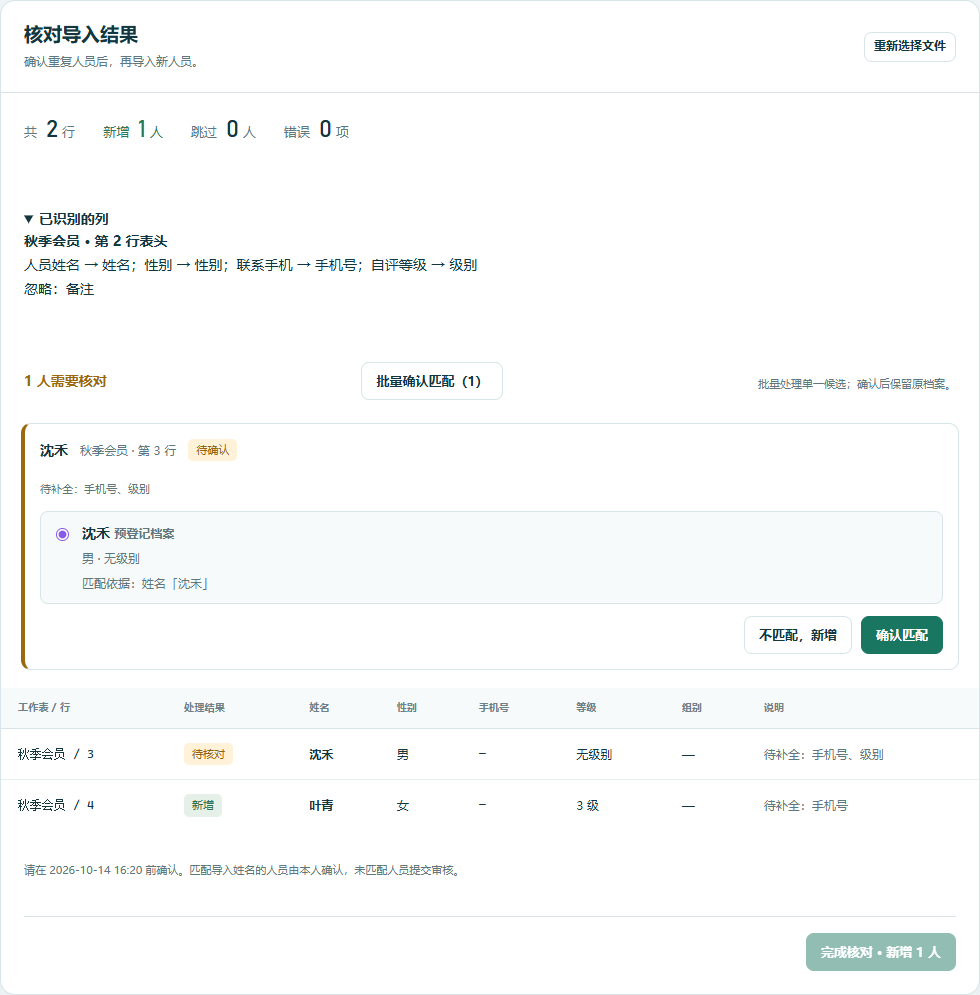
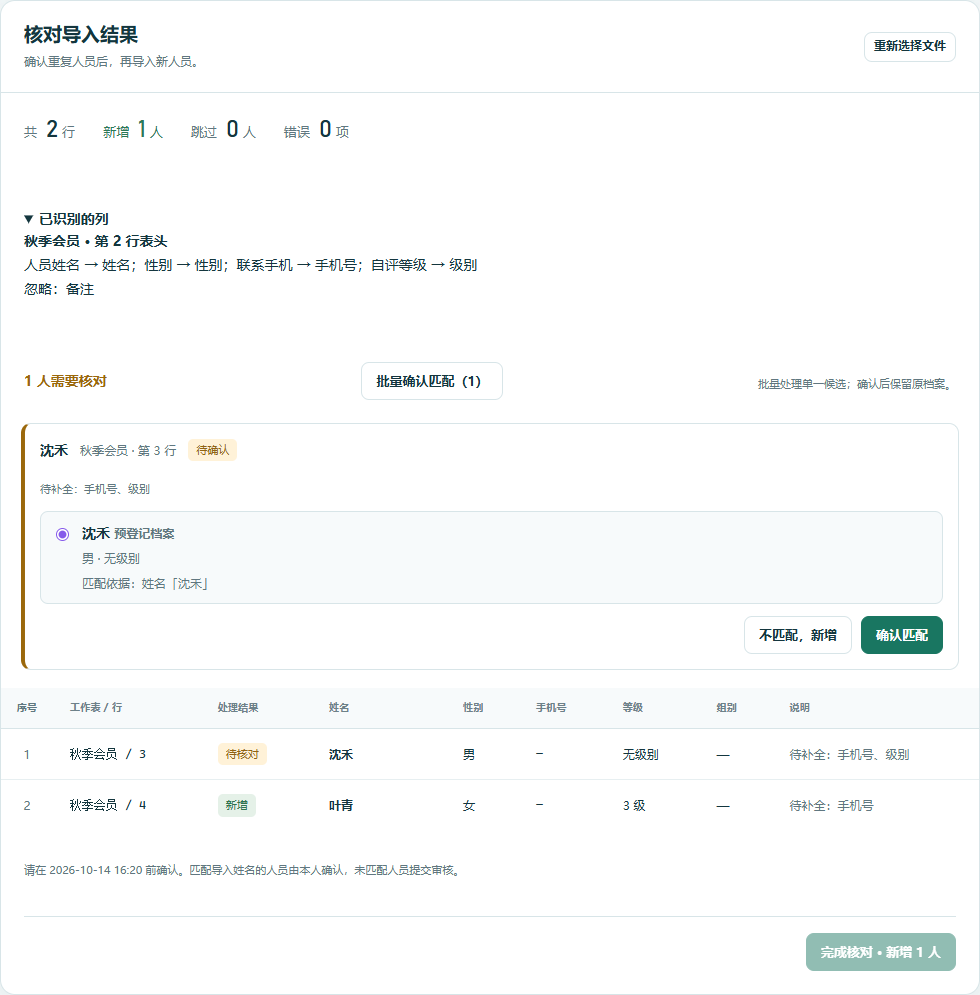
Add consistent row numbers to administrator tables (v1.0)

diff --git a/app/static/guide-admin.html b/app/static/guide-admin.html
@@ -2,7 +2,7 @@
 <html lang="zh-CN"><head><meta charset="utf-8"><meta name="viewport" content="width=device-width, initial-scale=1"><meta name="color-scheme" content="light"><meta name="referrer" content="no-referrer"><meta name="description" content="羽协助手管理员版：接入机器人、管理会员与活动，按步骤办好一场大型赛事。"><title>管理员版 · 羽协助手操作说明</title><link rel="stylesheet" href="/static/guide.css?v=1.0-guide20261020"><script src="/static/guide.js?v=1.0-guide20261020" defer></script></head>
 <body data-edition="admin"><a class="skip-link" href="#content">跳到操作说明</a><header class="site-header"><a class="brand" href="/guide"><span class="brand-mark" aria-hidden="true">羽</span><span>羽协助手<small>操作说明</small></span></a><nav class="edition-switch" aria-label="选择说明版本"><a href="/guide">普通用户版</a><a href="/guide/admin" aria-current="page">管理员版</a></nav></header>
 <div class="layout"><aside class="contents"><p class="nav-label">管理员版目录</p><nav aria-label="说明目录"><a href="#start"><span>01</span> 管理工作入口</a><a href="#robots"><span>02</span> 机器人接入与分工</a><a href="#people"><span>03</span> 会员、审核与角色</a><a href="#activities"><span>04</span> 日常活动与报名</a><a href="#large-events"><span>05</span> 举办大型赛事</a><a href="#operations"><span>06</span> 消息、AI与系统</a><a href="#feedback"><span>07</span> 常见问题处理</a></nav><p class="nav-note">群内先 @对应机器人。<br>示例中的日期、姓名和赛事名请按实际替换。截图使用虚构数据，可点开大图。</p></aside><main id="content" tabindex="-1"><div class="intro"><p class="eyebrow">接入 · 运营 · 办赛</p><h1>管理员版</h1><p class="guide-updated">按当前页面更新 · 2026-10-20 · 截图均为示例数据，可点开大图。</p><p>接入机器人、管理会员与活动，按步骤办好一场大型赛事。</p><div class="search" id="guide-search" hidden><label for="search-input">查找本版用法</label><div class="search-row"><input id="search-input" type="search" placeholder="接入机器人、审核、抽签、发布…" autocomplete="off"><button id="clear-search" type="button">清除</button></div><p id="search-status" role="status" aria-live="polite" aria-atomic="true"></p></div></div>
-<section class="chapter" id="start" aria-labelledby="start-heading"><div class="chapter-heading"><span class="chapter-number">01</span><h2 id="start-heading">管理工作入口</h2></div><div class="cards"><article class="card card-wide" data-guide-item><h3>登录后，从要办的事开始</h3><p id="management">打开管理工作台，使用<strong>管理员密码</strong>登录。密码可在“系统设置”修改。</p><dl class="scenario-grid"><div><dt>让一个群开始使用</dt><dd>先配置场地和时段，再接入机器人、勾选业务、连接群。</dd></div><div><dt>处理新会员</dt><dd>审核申请，按需核准等级、设置组别、登记会籍。</dd></div><div><dt>举办公开赛或联赛</dt><dd>先创建草稿与安排人员，再开放报名、抽签和排赛。</dd></div></dl><p class="note">群内管理员及子权限在“人员中心 → 角色与权限”分配，不是各自的网页登录账号。注册、报名和普通参赛用法见普通用户版。</p><a class="text-link" href="/admin#dashboard">进入管理工作台 →</a></article></div></section>
+<section class="chapter" id="start" aria-labelledby="start-heading"><div class="chapter-heading"><span class="chapter-number">01</span><h2 id="start-heading">管理工作入口</h2></div><div class="cards"><article class="card card-wide" data-guide-item><h3>登录后，从要办的事开始</h3><p id="management">打开管理工作台，使用<strong>管理员密码</strong>登录。密码可在“系统设置”修改。</p><dl class="scenario-grid"><div><dt>让一个群开始使用</dt><dd>先配置场地和时段，再接入机器人、勾选业务、连接群。</dd></div><div><dt>处理新会员</dt><dd>审核申请，按需核准等级、设置组别、登记会籍。</dd></div><div><dt>举办公开赛或联赛</dt><dd>先创建草稿与安排人员，再开放报名、抽签和排赛。</dd></div></dl><p class="note">群内管理员及子权限在“人员中心 → 角色与权限”分配，不是各自的网页登录账号。注册、报名和普通参赛用法见普通用户版。</p><p>列表左侧的“序号”按当前显示顺序从 1 编排，筛选后重新编号。</p><a class="text-link" href="/admin#dashboard">进入管理工作台 →</a></article></div></section>
 <section class="chapter" id="robots" aria-labelledby="robots-heading"><div class="chapter-heading"><span class="chapter-number">02</span><h2 id="robots-heading">机器人接入与分工</h2></div><div class="cards">
 <article class="card" data-guide-item><h3>1. 机器人管理：名称与分工</h3><ol class="steps"><li>进入<strong>机器人与群 → 机器人管理</strong>，点击<strong>新建机器人</strong>。</li><li>填写名称，勾选业务。注册、报名、每日赛事、零散对局、统计和消息默认开启；AI、大型赛事、群内管理默认关闭。</li><li>按需设置场地、场次、用户条件及功能开放时间，保存。</li><li>点击机器人行展开，用<strong>编辑名称与功能</strong>调整设置，或预览帮助。</li></ol><p>机器人名称旁显示业务和负责时段；连接地址在另一个分页配置。</p><a class="text-link" href="/admin#bots">打开机器人管理 →</a><details class="screen-guide"><summary>看图操作：机器人管理</summary><div class="screenshot-grid"><figure class="guide-shot">
 <a href="/static/guide-images/admin-bots.png" target="_blank" rel="noopener" aria-label="查看大图：图 7 · 机器人管理配置名称、业务和服务范围；连接放在“群关联”。">

diff --git a/app/static/table-row-numbers.js b/app/static/table-row-numbers.js
@@ -1,0 +1,71 @@
+/* Shared display numbering for admin data tables, including async modal content. */
+(() => {
+  'use strict';
+  const selector = '.table-wrap > table';
+  const columnClass = 'admin-row-number';
+
+  function numberTable(table) {
+    const head = table.tHead;
+    if (!head?.rows.length) return;
+    const first = head.rows[0];
+    let heading = first.querySelector(`:scope > .${columnClass}`);
+    if (!heading) {
+      heading = document.createElement('th');
+      heading.className = columnClass;
+      heading.scope = 'col';
+      heading.textContent = '序号';
+      first.prepend(heading);
+    }
+    if (heading.rowSpan !== head.rows.length) heading.rowSpan = head.rows.length;
+    const columns = [...first.cells].reduce((sum, cell) => sum + cell.colSpan, 0);
+    let number = 0;
+    for (const body of table.tBodies) {
+      for (const row of body.rows) {
+        let cell = row.querySelector(`:scope > .${columnClass}`);
+        const dataCells = [...row.cells].filter(item => item !== cell);
+        // A full-width empty/loading row is a message, not a numbered record.
+        if (dataCells.length === 1 && dataCells[0].colSpan > 1) {
+          cell?.remove();
+          if (dataCells[0].colSpan !== columns) dataCells[0].colSpan = columns;
+          continue;
+        }
+        if (!dataCells.length) continue;
+        if (!cell) {
+          cell = document.createElement('td');
+          cell.className = columnClass;
+          row.prepend(cell);
+        }
+        const style = getComputedStyle(row);
+        const visible = !row.hidden && style.display !== 'none' && style.visibility !== 'collapse' && style.visibility !== 'hidden';
+        const label = visible ? String(++number) : '';
+        if (cell.textContent !== label) cell.textContent = label;
+      }
+    }
+    // Keep summary/footer spans aligned without assigning a record number.
+    for (const row of table.tFoot?.rows || []) {
+      if (row.cells.length === 1 && row.cells[0].colSpan !== columns) row.cells[0].colSpan = columns;
+    }
+  }
+
+  function collect(node, tables) {
+    if (!(node instanceof Element)) return;
+    const table = node.closest('table');
+    if (table?.matches(selector)) tables.add(table);
+    node.querySelectorAll(selector).forEach(item => tables.add(item));
+  }
+
+  const observer = new MutationObserver(records => {
+    const tables = new Set();
+    for (const record of records) {
+      if (record.target instanceof Element && record.target.closest(`.${columnClass}`)) continue;
+      collect(record.target, tables);
+    }
+    tables.forEach(table => { if (table.isConnected) numberTable(table); });
+  });
+  // Admin-only roots: message previews and public guide tables keep their format.
+  for (const root of document.querySelectorAll('#app, #modal')) {
+    root.querySelectorAll(selector).forEach(numberTable);
+    observer.observe(root, {childList: true, subtree: true, attributes: true,
+      attributeFilter: ['hidden', 'class', 'style']});
+  }
+})();

diff --git a/app/static/style.css b/app/static/style.css
@@ -88,6 +88,12 @@ dialog[open]{display:flex;flex-direction:column;overflow:hidden;max-height:calc(
 @media(max-width:1050px){.robot-group{align-items:flex-start;flex-direction:column}.robot-group-actions{width:100%}.robot-coverage{grid-template-columns:minmax(0,1fr)}.robot-overview>span:last-child{width:100%;margin-left:0}}
 @media(max-width:650px){.robot-capabilities{grid-template-columns:minmax(0,1fr)}.robot-capability{padding:12px;min-height:60px}.robot-capability input{width:20px;height:20px}.robot-coverage{padding:18px 15px;gap:18px}.robot-groups-heading{padding:18px 15px 6px}.robot-group-list{padding:0 15px 8px}.robot-card-footer{padding:12px 15px}.robot-card-footer>.actions{width:100%}.robot-card-footer>.actions .btn{flex:1 1 auto}.robot-group-actions .btn{flex:1 1 auto}.robot-scope-settings{padding:0 12px}.robot-channel-toggles{flex-direction:column;gap:6px}.robot-overview{gap:10px 20px}.robot-group-title .badge{font-size:10px}.robot-card>.panel-head>.actions{width:100%}.robot-card>.panel-head>.actions .btn{flex:1 1 auto}}
 /* Occupancy and holiday operations share the existing responsive form grid. */
+/* Display-only row numbers stay narrow alongside scrollable admin tables. */
+.table-wrap th.admin-row-number,.table-wrap td.admin-row-number{width:52px;min-width:52px;max-width:64px;padding:12px 10px;text-align:center;white-space:nowrap;font-variant-numeric:tabular-nums;color:var(--muted)}
+.table-wrap th.admin-row-number{font-weight:650}
+.table-wrap table:has(.admin-row-number) td.name{min-width:100px}
+.table-wrap table:has(.admin-row-number) td.mono{white-space:nowrap}
+@media(max-width:650px){.table-wrap th.admin-row-number,.table-wrap td.admin-row-number{width:44px;min-width:44px;max-width:52px;padding:12px 7px}}
 .calendar-item.occupied{background:#fff0e8;color:#963915;border-left:3px solid #c94e2c}
 .occupancy-reason{display:block;color:#963915;font-size:13px;overflow-wrap:anywhere}
 .holiday-slot,.holiday-override,.reservation-row{padding:16px 0;border-bottom:1px solid var(--line,#dce6e5);margin-bottom:12px}

diff --git a/app/static/index.html b/app/static/index.html
@@ -6,7 +6,7 @@
   <meta name="color-scheme" content="light">
   <meta name="referrer" content="same-origin">
   <title>羽协 · 场边工作台</title>
-  <link rel="stylesheet" href="/static/style.css?v=1.0-confirm20261020">
+  <link rel="stylesheet" href="/static/style.css?v=1.0-rows20261022">
   <link rel="stylesheet" href="/static/bot-groups.css?v=1.0-confirm20261020">
 <link rel="stylesheet" href="/static/bot-relations.css?v=1.0-confirm20261020">
 <script src="/static/bot-relations.js?v=1.0-confirm20261020" defer></script>
@@ -31,6 +31,7 @@
 <script src="/static/profile-workspace.js?v=1.0-confirm20261020" defer></script>
 <script src="/static/time-workspace.js?v=1.0-confirm20261020" defer></script>
 <link rel="stylesheet" href="/static/time-workspace.css?v=1.0-confirm20261020">
+<script src="/static/table-row-numbers.js?v=1.0-rows20261022" defer></script>
 <script src="/static/app.js?v=1.0-confirm20261020" defer></script>
 </body>
 </html>

diff --git a/scripts/mobile_browser/check_tables.py b/scripts/mobile_browser/check_tables.py
@@ -1,0 +1,127 @@
+"""Verify shared admin numbering against actual pages and dynamic table updates."""
+import json
+import os
+from datetime import datetime
+from pathlib import Path
+from playwright.sync_api import sync_playwright
+
+base = Path(os.environ['ROBORT_MOBILE_RUN_DIR'])
+meta = json.loads((base / 'fixture.json').read_text(encoding='utf-8'))
+origin = meta['origin']
+report = {'checks': [], 'errors': [], 'external_requests': []}
+
+
+def check(label, passed):
+    report['checks'].append({'name': label, 'passed': bool(passed)})
+    assert passed, label
+
+
+def intercept(route):
+    if route.request.url.startswith(origin + '/'):
+        route.continue_()
+    else:
+        report['external_requests'].append(route.request.url)
+        route.abort()
+
+
+def tables(page, label, root='#main'):
+    page.locator('#main .loading').wait_for(state='hidden')
+    page.wait_for_load_state('networkidle')
+    found = page.locator(root + ' .table-wrap > table')
+    check(label + ' has data table', found.count() > 0)
+    for i in range(found.count()):
+        table = found.nth(i)
+        check(label + ' leading header', table.locator('thead th').first.inner_text() == '序号')
+        rows = table.locator('tbody > tr').all()
+        check(label + ' sequence', [row.locator('td').first.inner_text() for row in rows] == [str(n + 1) for n in range(len(rows))])
+        check(label + ' single number column', table.locator('thead .admin-row-number').count() == 1)
+        check(label + ' columns align', all(row.locator('td').count() == table.locator('thead th').count() for row in rows))
+    check(label + ' page fits', page.evaluate('document.documentElement.scrollWidth <= innerWidth+1'))
+
+
+def visit(page, route):
+    if page.locator('#modal[open]').count():
+        page.keyboard.press('Escape')
+    page.goto(origin + '/admin#' + route)
+    page.locator('#main .loading').wait_for(state='hidden')
+    page.wait_for_load_state('networkidle')
+
+
+try:
+    with sync_playwright() as pw:
+        browser = pw.chromium.launch(executable_path=os.environ.get('ROBORT_BROWSER_EXECUTABLE'), headless=True)
+        context = browser.new_context(viewport={'width': 1280, 'height': 900})
+        context.route('**/*', intercept)
+        page = context.new_page()
+        page.on('pageerror', lambda error: report['errors'].append(str(error)))
+        page.clock.install(time=datetime.fromisoformat(meta['clock']))
+        page.goto(origin + '/admin#members')
+        page.get_by_label('管理员密码', exact=True).fill(meta['password'])
+        page.get_by_role('button', name='登录工作台', exact=True).click()
+        page.locator('#member-list table').wait_for()
+        for width in (1280, 768, 390, 320):
+            page.set_viewport_size({'width': width, 'height': 900})
+            visit(page, 'members')
+            tables(page, f'{width} members')
+            check('compact number column', page.locator('th.admin-row-number').first.bounding_box()['width'] < 70)
+            page.locator('#member-search').fill('张三')
+            tables(page, f'{width} filtered members')
+            check('filter keeps identity', page.locator('#member-list td.name').all_inner_texts() == ['张三'])
+            page.locator('#member-search').fill('不存在的会员')
+            check('empty state is not a record', page.locator('#member-list table').count() == 0)
+            page.locator('#member-search').fill('')
+            page.locator('#member-status-filter').select_option('pending')
+            tables(page, f'{width} pending')
+            page.locator('#member-list').screenshot(path=str(base / f'rows-{width}.png'))
+            for route in ('member-imports', 'guests', 'roles', 'stats', 'audit'):
+                visit(page, route)
+                tables(page, f'{width} {route}')
+            visit(page, 'member-imports')
+            page.locator('#import-select-all').check()
+            selected = page.locator('[data-import-check]:checked').count()
+            check('select-all identity unchanged', selected == page.locator('[data-import-check]').count() and selected > 0)
+            page.locator('#import-select-all').uncheck()
+            check('clear selection', page.locator('[data-import-check]:checked').count() == 0)
+            page.get_by_role('button', name='匹配已有会员', exact=True).click()
+            page.locator('#modal table').wait_for()
+            tables(page, f'{width} matching modal', '#modal')
+            visit(page, 'tournaments')
+            page.locator(f'[data-action=tournament-open][data-id="{meta["proxy_event_id"]}"]').click()
+            page.get_by_role('tab', name='参赛名单', exact=True).click()
+            tables(page, f'{width} participants')
+
+        # Async modal content, reordering, append/remove, hidden rows and spans.
+        page.evaluate('''() => {
+          openModal('序号验证', '<div class="table-wrap"><table><thead><tr><th>姓名</th><th>动作</th></tr></thead><tbody id="rows-test"><tr data-key="a"><td>甲</td><td><button data-key="a">编辑</button></td></tr><tr data-key="b"><td>乙</td><td><button data-key="b">编辑</button></td></tr></tbody></table></div>');
+        }''')
+        tables(page, 'dynamic modal', '#modal')
+        page.evaluate("document.querySelector('#rows-test').prepend(document.querySelector('#rows-test tr:last-child'))")
+        tables(page, 'reordered modal', '#modal')
+        check('reorder preserves key', page.locator('#rows-test tr').first.get_attribute('data-key') == 'b')
+        page.evaluate("document.querySelector('#rows-test').insertAdjacentHTML('beforeend','<tr data-key=\"c\"><td>丙</td><td>查看</td></tr>')")
+        tables(page, 'appended row', '#modal')
+        page.locator('#rows-test tr').first.evaluate('(row) => row.hidden = true')
+        check('hidden row does not consume number', page.locator('#rows-test tr:visible .admin-row-number').all_inner_texts() == ['1', '2'])
+        page.locator('#rows-test tr').first.evaluate('(row) => row.hidden = false')
+        tables(page, 'unhidden row', '#modal')
+        page.locator('#rows-test tr').nth(1).evaluate('(row) => row.remove()')
+        tables(page, 'removed row', '#modal')
+        page.evaluate("document.querySelector('#rows-test').innerHTML='<tr><td colspan=\"2\">暂无记录</td></tr>'")
+        check('empty row spans number column', page.locator('#rows-test td').get_attribute('colspan') == '3')
+        check('empty row not numbered', page.locator('#rows-test .admin-row-number').count() == 0)
+        # Large lists remain stable after the observer settles; no repeated columns.
+        page.evaluate("document.querySelector('#rows-test').innerHTML=Array.from({length:1000},(_,i)=>'<tr><td>会员'+i+'</td><td>查看</td></tr>').join('')")
+        page.wait_for_function("document.querySelector('#rows-test tr:last-child td').textContent === '1000'")
+        check('large list one cell each', page.locator('#rows-test .admin-row-number').count() == 1000)
+        page.evaluate("openModal('消息预览',markdown('| 姓名 | 性别 |\\n|---|---|\\n| 张三 | 男 |'))")
+        check('message preview retains columns', page.locator('#modal th').all_inner_texts() == ['姓名', '性别'])
+        page.keyboard.press('Escape')
+        page.goto(origin + '/guide/admin')
+        check('manual examples retain format', page.locator('.admin-row-number').count() == 0)
+        browser.close()
+except Exception as error:
+    report['errors'].append(str(error))
+finally:
+    (base / 'tables-report.json').write_text(json.dumps(report, ensure_ascii=False, indent=2), encoding='utf-8')
+    print(json.dumps({'output': str(base), 'checks': len(report['checks']), 'errors': report['errors'], 'external_requests': report['external_requests']}, ensure_ascii=False))
+raise SystemExit(bool(report['errors'] or report['external_requests']))

diff --git a/scripts/mobile_browser/check_proxy.py b/scripts/mobile_browser/check_proxy.py
@@ -28,8 +28,8 @@ def width_check(page,label):
 
 def headers_check(table,label):
     headers=table.locator('thead th').all_inner_texts()
-    check(label+' name gender quota columns',headers[:3]==['姓名','性别','名额'],headers)
-    check(label+' no number or status column',not any(h.strip() in ('序号','状态','报名状态') for h in headers),headers)
+    check(label+' number name gender quota columns',headers[:4]==['序号','姓名','性别','名额'],headers)
+    check(label+' no registration status column',not any(h.strip() in ('状态','报名状态') for h in headers),headers)
 
 def api(context,path):
     response=context.request.get(origin+path)
@@ -64,9 +64,9 @@ with sync_playwright() as playwright:
             headers_check(table,label+' daily roster')
             proxy=table.locator('tbody tr').filter(has_text='随行甲（张三代报名）')
             check(label+' daily proxy sponsor',proxy.count()==1)
-            check(label+' guest gender unknown',proxy.locator('td').nth(1).inner_text()=='未填写')
+            check(label+' guest gender unknown',proxy.locator('td').nth(2).inner_text()=='未填写')
             owner=table.locator('tbody tr').filter(has=page.locator('button[data-name="张三"]'))
-            check(label+' member actual gender',owner.locator('td').nth(1).inner_text()=='男')
+            check(label+' member actual gender',owner.locator('td').nth(2).inner_text()=='男')
             check(label+' ranked quota visible',any(value in table.inner_text() for value in ('正式','替补')))
             width_check(page,label+' daily roster')
             if width in (320,390,844,1280):shot(page,f'proxy-daily-{label}.png')
@@ -79,7 +79,7 @@ with sync_playwright() as playwright:
             target=meta['proxy_targets'][str(width)]
             row=table.locator('tbody tr').filter(has_text=target['name']+'（张三代报名）')
             check(label+' event proxy sponsor',row.count()==1)
-            check(label+' event guest gender unknown',row.locator('td').nth(1).inner_text()=='未填写')
+            check(label+' event guest gender unknown',row.locator('td').nth(2).inner_text()=='未填写')
             check(label+' cancel action targets participant id',row.get_by_role('button',name='取消报名',exact=True).get_attribute('data-id')==target['id'])
             width_check(page,label+' event roster')
             if width in (320,390,844,1280):shot(page,f'proxy-event-before-{label}.png')

diff --git a/scripts/mobile_browser/run.py b/scripts/mobile_browser/run.py
@@ -83,7 +83,7 @@ def wait_ready(process: subprocess.Popen, origin: str, run_id: str, output: Path
 def main() -> int:
     parser = argparse.ArgumentParser(description=__doc__)
     parser.add_argument('--port', type=int, default=9888, help='Loopback port (default: 9888).')
-    parser.add_argument('--suite', choices=('all', 'proxy', 'bots', 'availability', 'activity', 'schedule', 'profile', 'operations', 'confirmation', 'guide'), default='all', help='Full mobile checks, focused workflows, or synthetic guide screenshots.')
+    parser.add_argument('--suite', choices=('all', 'proxy', 'bots', 'availability', 'activity', 'schedule', 'profile', 'operations', 'confirmation', 'guide', 'tables'), default='all', help='Full mobile checks, focused workflows, or synthetic guide screenshots.')
     args = parser.parse_args()
     if not 1024 <= args.port <= 65535:
         parser.error('--port must be between 1024 and 65535')
@@ -112,7 +112,7 @@ def main() -> int:
             server = start('fixture.py', env, stdout=log, stderr=log)
             # Wait for the new service before reading this run's fixture metadata.
             wait_ready(server, f'http://127.0.0.1:{args.port}', run_id, output)
-            browser = start({'all':'check.py','proxy':'check_proxy.py','bots':'check_bot_onboarding.py','availability':'check_availability.py','activity':'check_activity.py','schedule':'check_schedule.py','profile':'check_profile.py','operations':'check_operations.py','confirmation':'check_confirmation.py','guide':'capture_guide.py'}[args.suite], env)
+            browser = start({'all':'check.py','proxy':'check_proxy.py','bots':'check_bot_onboarding.py','availability':'check_availability.py','activity':'check_activity.py','schedule':'check_schedule.py','profile':'check_profile.py','operations':'check_operations.py','confirmation':'check_confirmation.py','guide':'capture_guide.py','tables':'check_tables.py'}[args.suite], env)
             return browser.wait()
         finally:
             stop_tree(browser)

diff --git a/scripts/mobile_browser/fixture.py b/scripts/mobile_browser/fixture.py
@@ -7,7 +7,7 @@ from dataclasses import replace
 base=Path(os.environ['ROBORT_MOBILE_RUN_DIR']).resolve()
 project=Path(__file__).resolve().parents[2]
 run_id=os.environ['ROBORT_MOBILE_RUN_ID']
-guide_mode=os.environ.get('ROBORT_MOBILE_SUITE')=='guide'
+guide_mode=os.environ.get('ROBORT_MOBILE_SUITE') in ('guide', 'tables')
 port=int(os.environ['ROBORT_MOBILE_PORT'])
 origin=f'http://127.0.0.1:{port}'
 sys.path.insert(0,str(project))
@@ -125,7 +125,7 @@ if os.environ.get('ROBORT_MOBILE_SUITE') in ('activity','availability','schedule
     with connect(admin.db_path,True) as db:
         db.execute('INSERT INTO holiday_calendars VALUES(?,?,?,?)',(2027,dumps(payload),'fixture://synthetic',clock().isoformat()))
 confirmation={};confirmation_bulk=''
-if os.environ.get('ROBORT_MOBILE_SUITE') in ('confirmation','guide'):
+if os.environ.get('ROBORT_MOBILE_SUITE') in ('confirmation','guide','tables'):
     from app.member_imports import ensure_schema
     from app.db import connect,stamp
     for bot in bots:

diff --git a/tests/test_registration_display_v210.py b/tests/test_registration_display_v210.py
@@ -92,4 +92,5 @@ def test_help_and_public_guide_explain_append_and_selective_cancellation():
         assert '更新本人整组' not in text
     assert '春季联赛，报名，张三，李四' in guide
     assert '春季联赛，取消张三，李四' in guide
-    assert '?v=2.19' in guide
+    assert '/static/guide.css?v=' in guide
+    assert '/static/guide.js?v=' in guide

diff --git a/docs/CHANGELOG.md b/docs/CHANGELOG.md
@@ -1,5 +1,11 @@
 # Changes
 
+## v1.0 — 2026-10-22 · Administrator table row numbers
+
+- Add a shared leading row-number column to all admin data tables, including import previews, filtered lists and modal records.
+- Renumber each displayed table from 1 after filtering or reordering; keep business identifiers, rankings and source-file row references intact.
+- Keep the column compact on phones and update the illustrated administrator guide.
+
 ## v1.0 — 2026-10-20 · Illustrated member and administrator manuals
 
 - Align registration instructions with current pages: imported roster approval, personal account confirmation, duplicate review, normal applications, profile/level review, renewals, and source-bot notifications.

diff --git a/scripts/mobile_browser/README.md b/scripts/mobile_browser/README.md
@@ -65,3 +65,5 @@ python -m playwright install chromium
 新增 `--suite operations`：实际操作 Excel 列识别导入、无ID预登记、导入姓名确认注册、定时播报、机器人功能时间规则；覆盖320/390/844/1280宽度。
 
 `--suite confirmation` 验证通知预览和幂等排队、补全手机号关联现有会员、批量关联、姓名预填和无级别直接注册；`--suite profile` 验证会员档案统一待审、原值对比和审批历史。均使用隔离数据、禁用外网与真实群发送。
+
+`--suite tables` 验证管理员列表和弹窗的默认序号列、筛选重排、勾选、隐藏/新增/删除行、大列表及手机显示；消息预览保持原格式。

diff --git a/docs/ADMIN_GUIDE.zh-CN.md b/docs/ADMIN_GUIDE.zh-CN.md
@@ -20,6 +20,8 @@ v1.0 · 2026-10-20。服务中的网页版：`/guide/admin`。
 
 群内管理员及子权限在“人员中心 → 角色与权限”分配，不是各自的网页登录账号。注册、报名和普通参赛用法见普通用户版。
 
+列表左侧的“序号”按当前显示顺序从 1 编排，筛选后重新编号。
+
 进入管理工作台 →（后台 `/admin#dashboard`）
 
 <a id="robots"></a>
